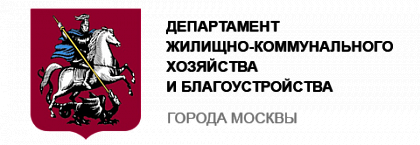
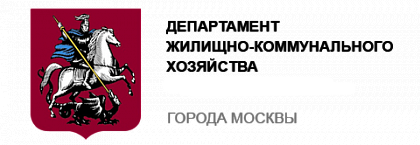
DITETSSUP-1847 1. Увеличить размер информационного окна об изменении версии 2. На всех стендах системы ЕТС на странице авторизации убрать "И БЛАГОУСТРОЙСТВА"

Changed region(s): [[0.3714, 0.5241, 0.8048, 0.6345]]

diff --git a/src/components/@next/@ui/@notify/NotificationSystem.tsx b/src/components/@next/@ui/@notify/NotificationSystem.tsx
@@ -1,19 +1,56 @@
 import * as React from 'react';
 import NotificationSystemOrigin from 'react-notification-system';
+import styled, { css } from 'styled-components';
+import { ButtonStyled } from 'components/new/ui/@bootstrap/00-button/EtsButton';
+
+const NotificationSystemStyledLg = css`
+  .notifications-br {
+    width: 450px!important;
+  }
+  .notification-title {
+    font-size: 20px!important;
+  
+  };
+  ${ButtonStyled} {
+    font-size: 20px!important;
+  }
+  .text-version-container * {
+    font-size: 18px!important;
+  }
+`;
+const NotificationSystemStyledDefault = css`
+`;
+
+export const NotificationSystemStyled = styled.div<{size?: string;}>`
+  &&& {
+    background: red;
+    ${({ size }) => (
+    size === 'lg'
+      ? NotificationSystemStyledLg
+      : NotificationSystemStyledDefault
+  )}
+  }
+`;
+
+type StateProps = any;
 
 /*
   INFO
   https://github.com/igorprado/react-notification-system
  */
-class NotificationSystem extends React.Component {
+class NotificationSystem extends React.Component<any, StateProps> {
   node = React.createRef<any>();
   constructor(props) {
     super(props);
 
     global.NOTIFICATION_SYSTEM = this;
+    this.state = null;
   }
 
   notifyWithObject: typeof global.NOTIFICATION_SYSTEM.notifyWithObject  = (notification) => {
+    this.setState({
+      ...notification,
+    });
     this.node.current.addNotification(notification);
   };
 
@@ -38,10 +75,14 @@ class NotificationSystem extends React.Component {
   };
 
   render() {
+    const notifyProps = this.state
+      ? {...this.state}
+      : {};
+
     return (
-      <div id="notifications">
+      <NotificationSystemStyled id="notifications" {...notifyProps}>
         <NotificationSystemOrigin ref={this.node} />
-      </div>
+      </NotificationSystemStyled>
     );
   }
 }

diff --git a/src/@types/vendor.d.ts b/src/@types/vendor.d.ts
@@ -14,6 +14,7 @@
 
  type NOTIFICATION_SYSTEM_NOTIFY_TYPE = 'success' | 'error' | 'warning' | 'info' | string;
  type NOTIFICATION_SYSTEM_NOTIFY_POSITION = 'tc' | 'tr' | string;
+ type NOTIFICATION_SYSTEM_NOTIFY_SIZE = 'lg' | string;
 
  type NOTIFICATION_SYSTEM_NOTIFY_AS_OBJECT = {
   title?: string;
@@ -28,12 +29,14 @@
     label: string;
     callback: () => any;
   };
+  size?: NOTIFICATION_SYSTEM_NOTIFY_SIZE;
 };
 
  type NOTIFICATION_SYSTEM_NOTIFY = (
   text: string | NOTIFICATION_SYSTEM_NOTIFY_AS_OBJECT,
   type?: NOTIFICATION_SYSTEM_NOTIFY_TYPE,
   position?: NOTIFICATION_SYSTEM_NOTIFY_POSITION,
+  size?: NOTIFICATION_SYSTEM_NOTIFY_SIZE,
 ) => void;
 
  declare namespace NodeJS {

diff --git a/src/assets/version-notifications.scss b/src/assets/version-notifications.scss
@@ -7,7 +7,7 @@
   &>.text-version-container {
     display: flex;
     flex-direction: column;
-    width: 150px;
+    width: auto;
     &>.one-text-version {
       display: flex;
       justify-content: space-between;

diff --git a/src/api/adapter.ts b/src/api/adapter.ts
@@ -243,6 +243,7 @@ function httpMethod<F = any>(
                 currV: process.env.VERSION,
                 nextV: servV,
               }),
+              size: 'lg',
             });
           }
         }
